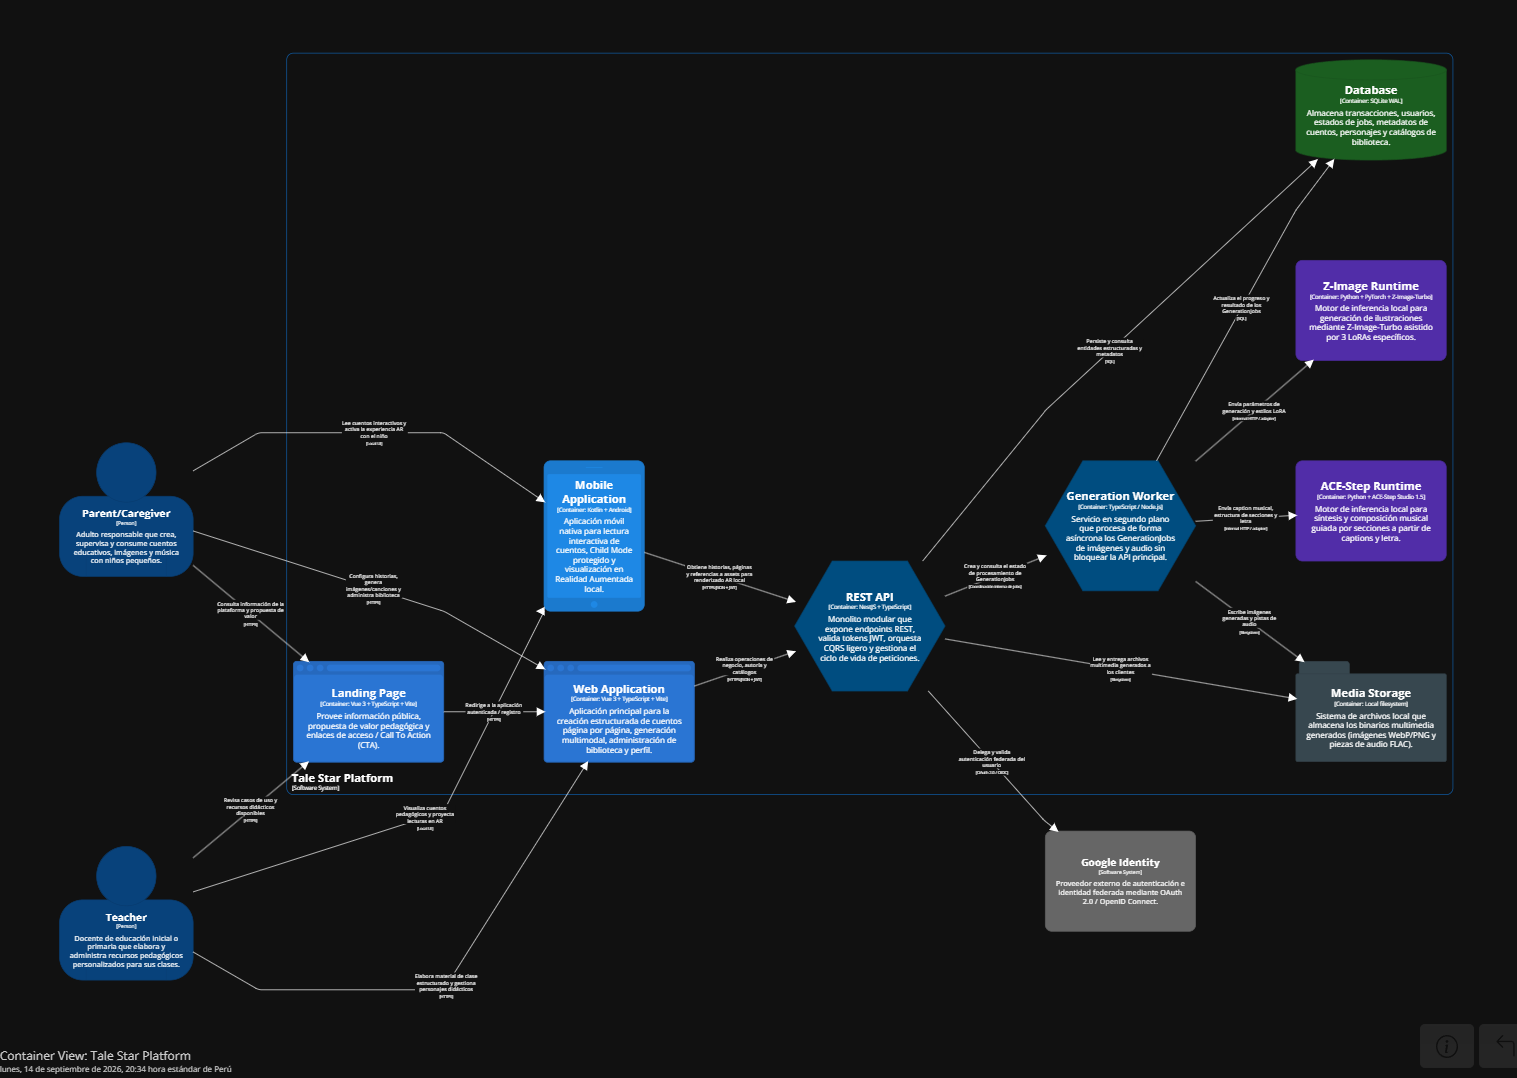
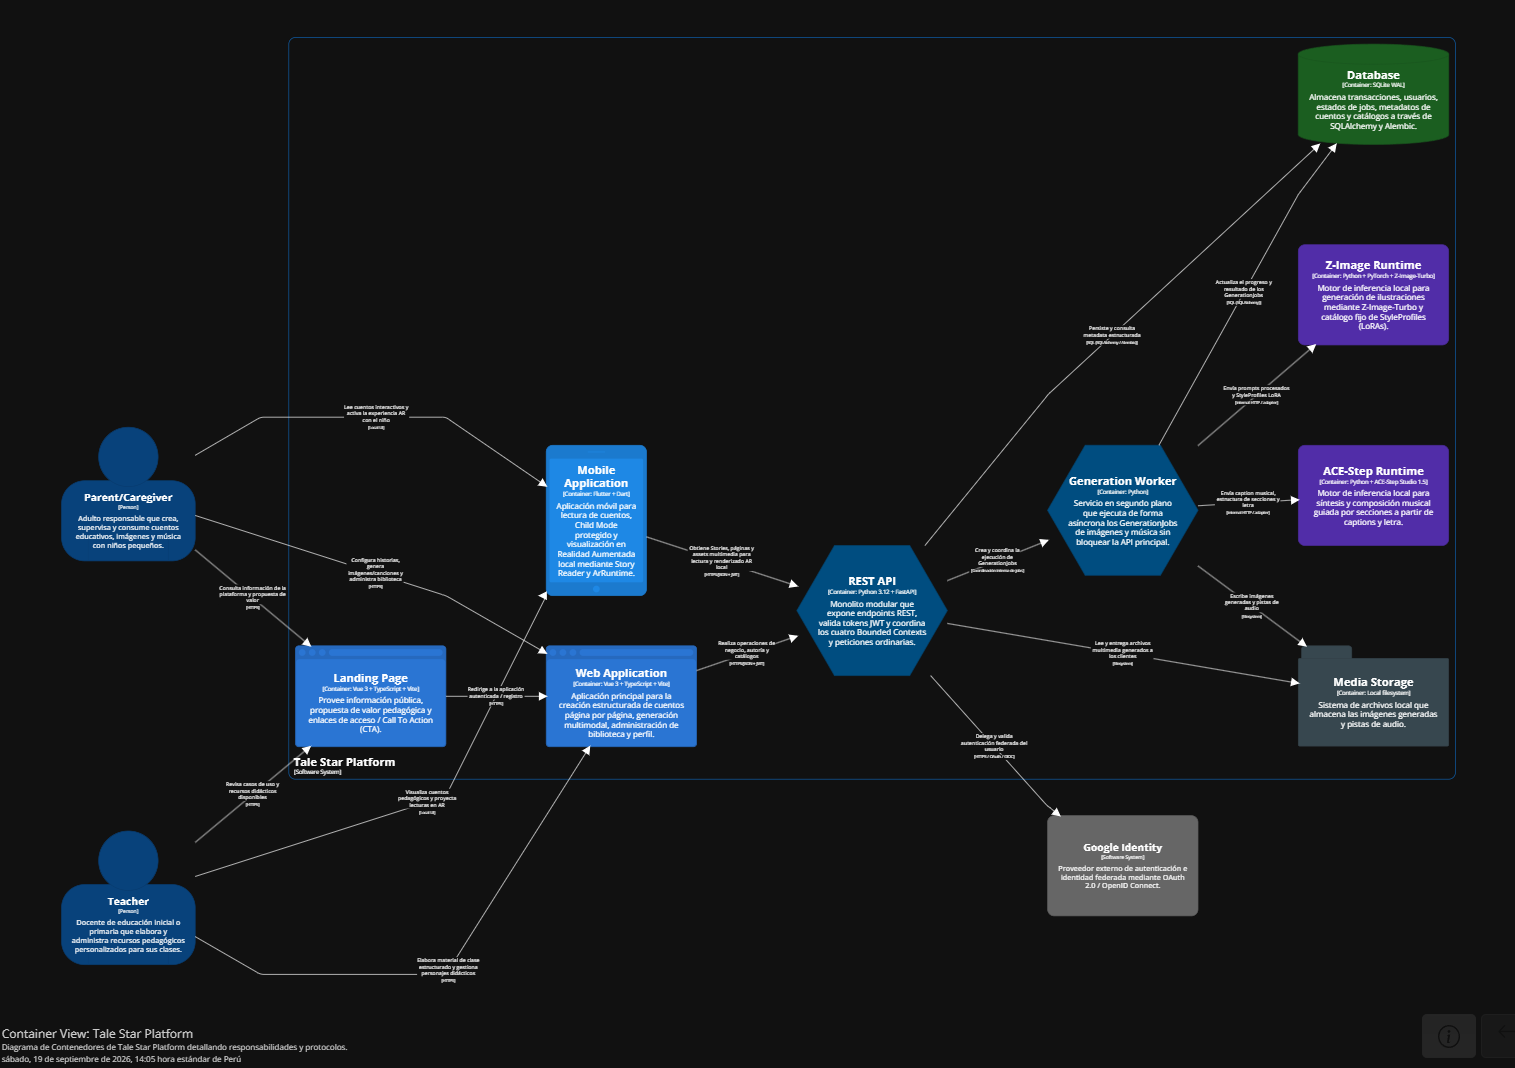
docs: updated c4 diagrams

diff --git a/README.md b/README.md
@@ -2214,21 +2214,21 @@ El modelo C4 presenta la solución de forma progresiva. System Landscape delimit
 <a id="431-software-architecture-system-landscape-diagram"></a>
 ### 4.3.1. Software Architecture System Landscape Diagram
 
-![Tale Star System Landscape](imgs/diagrams/taleStarSystemLandscape.jpg)
+![Tale Star System Landscape](imgs/diagrams/taleStarSystemLandscape.png)
 
 El System Landscape sitúa a padres/cuidadores y docentes como usuarios de Tale Star. La plataforma incluye Landing Page, Web Application y Mobile Application, y puede integrarse con Google Identity si dicha opción se conserva en los requisitos. Los motores locales de IA y el runtime AR no se presentan como sistemas independientes para el usuario final.
 
 <a id="432-software-architecture-context-level-diagram"></a>
 ### 4.3.2. Software Architecture Context Level Diagram
 
-![Tale Star System Context](imgs/diagrams/taleStarSystemContext.jpg)
+![Tale Star System Context](imgs/diagrams/taleStarSystemContext.png)
 
 El diagrama de contexto muestra Parent/Caregiver y Teacher interactuando con Tale Star Platform. Google Identity aparece únicamente como sistema externo opcional para autenticación. SQLite, FastAPI, runtimes de IA y Bounded Contexts se omiten porque pertenecen a niveles internos posteriores.
 
 <a id="433-software-architecture-container-level-diagram"></a>
 ### 4.3.3. Software Architecture Container Level Diagram
 
-![Tale Star Container Diagram](imgs/diagrams/taleStarContainerDiagram.jpg)
+![Tale Star Container Diagram](imgs/diagrams/taleStarContainerDiagram.png)
 
 Landing Page y Web Application se desarrollan con Vue 3, TypeScript y Vite. La Mobile Application utiliza Flutter y Dart, incorpora Story Reader y ArRuntime local. Ambas aplicaciones consumen la REST API mediante HTTPS/JSON.
 
